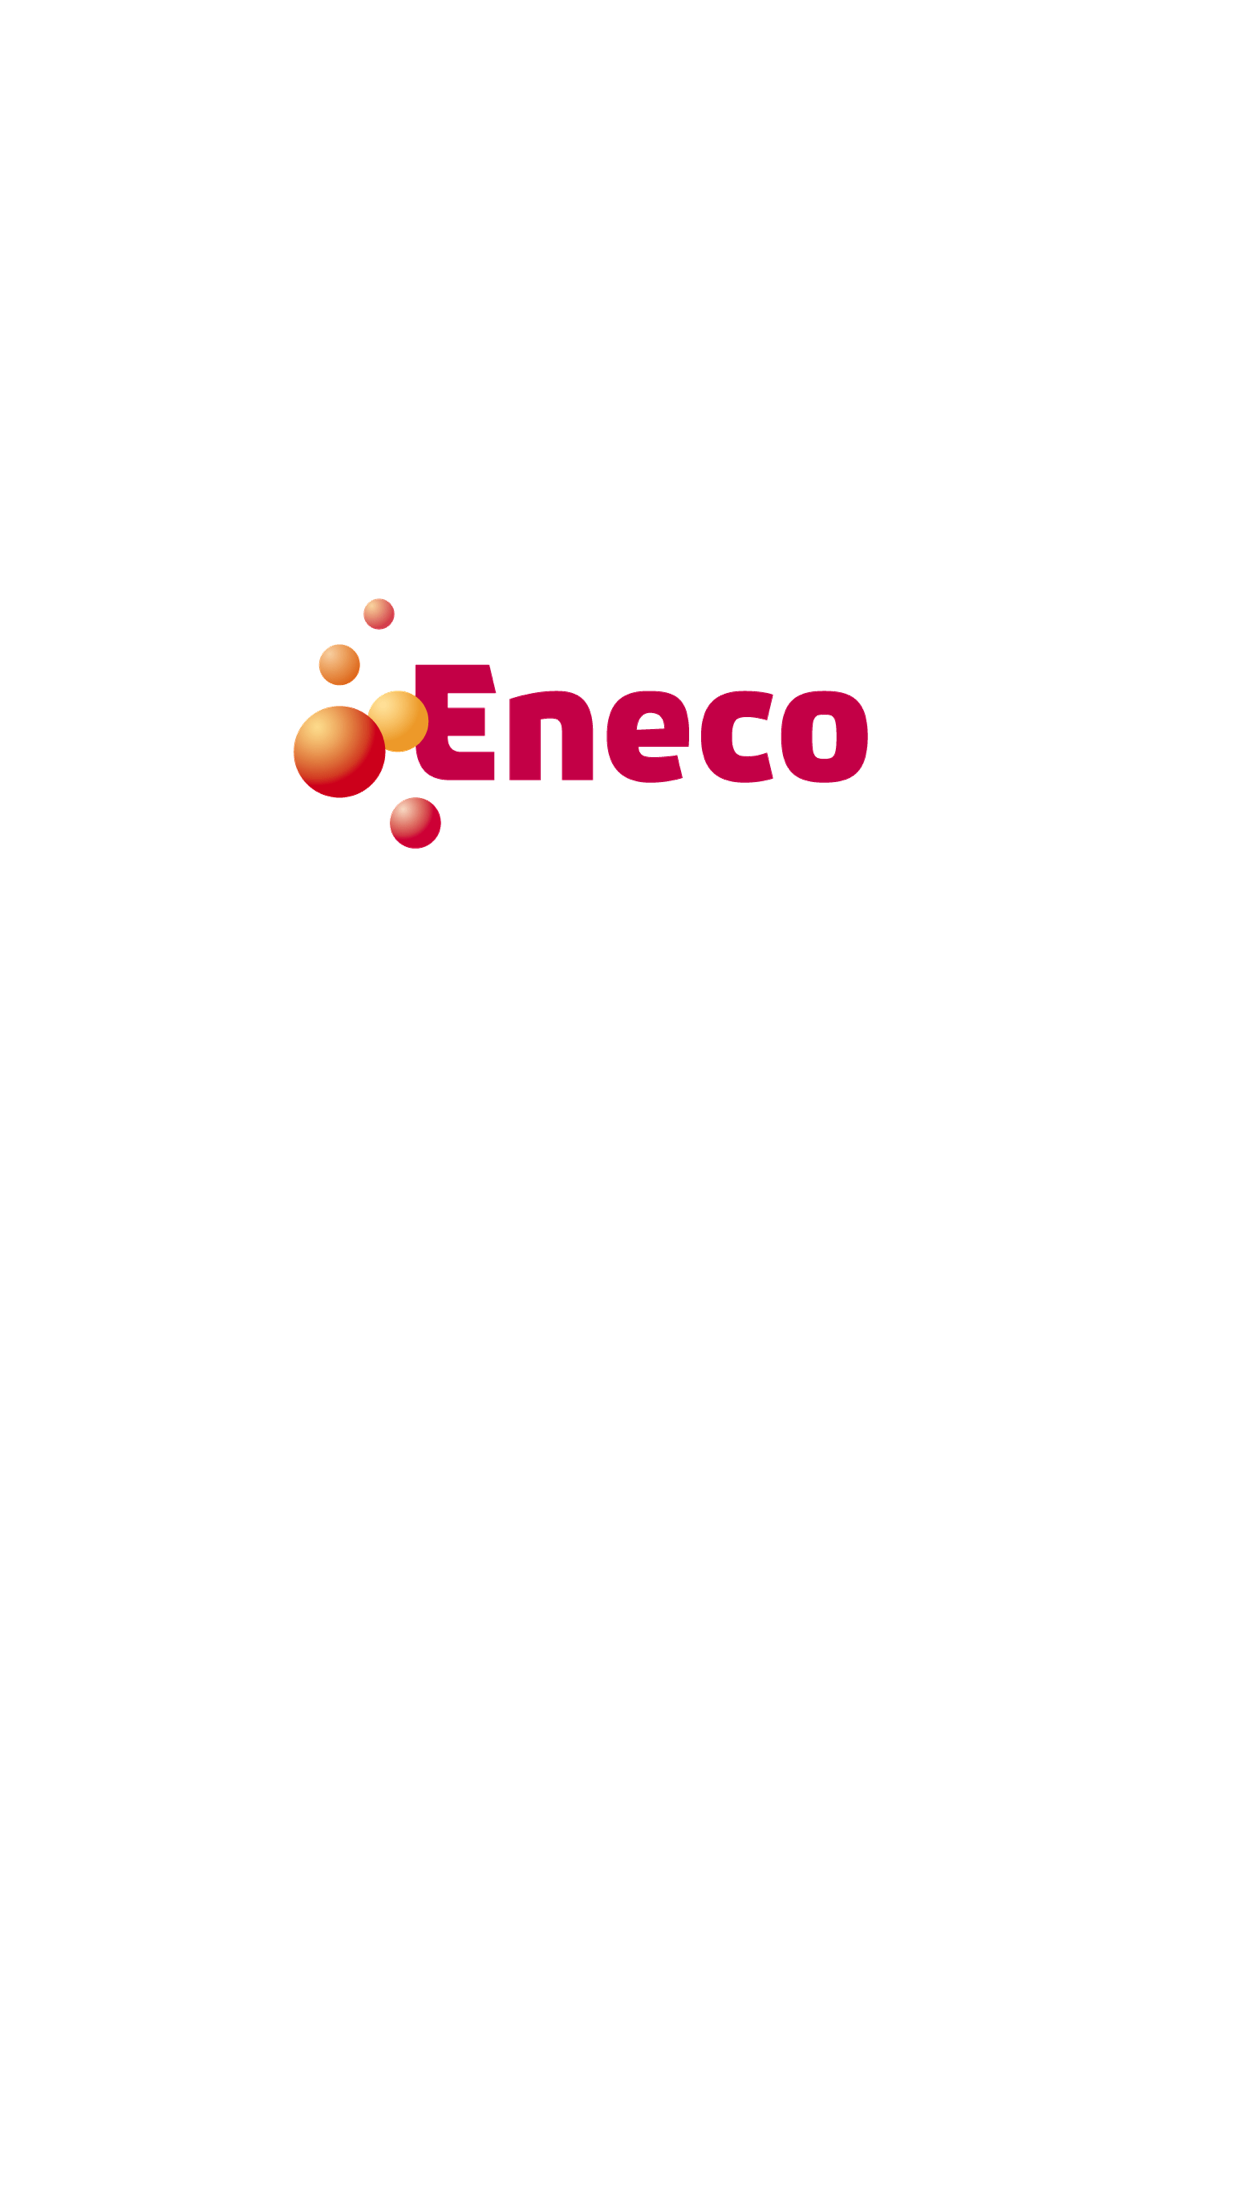
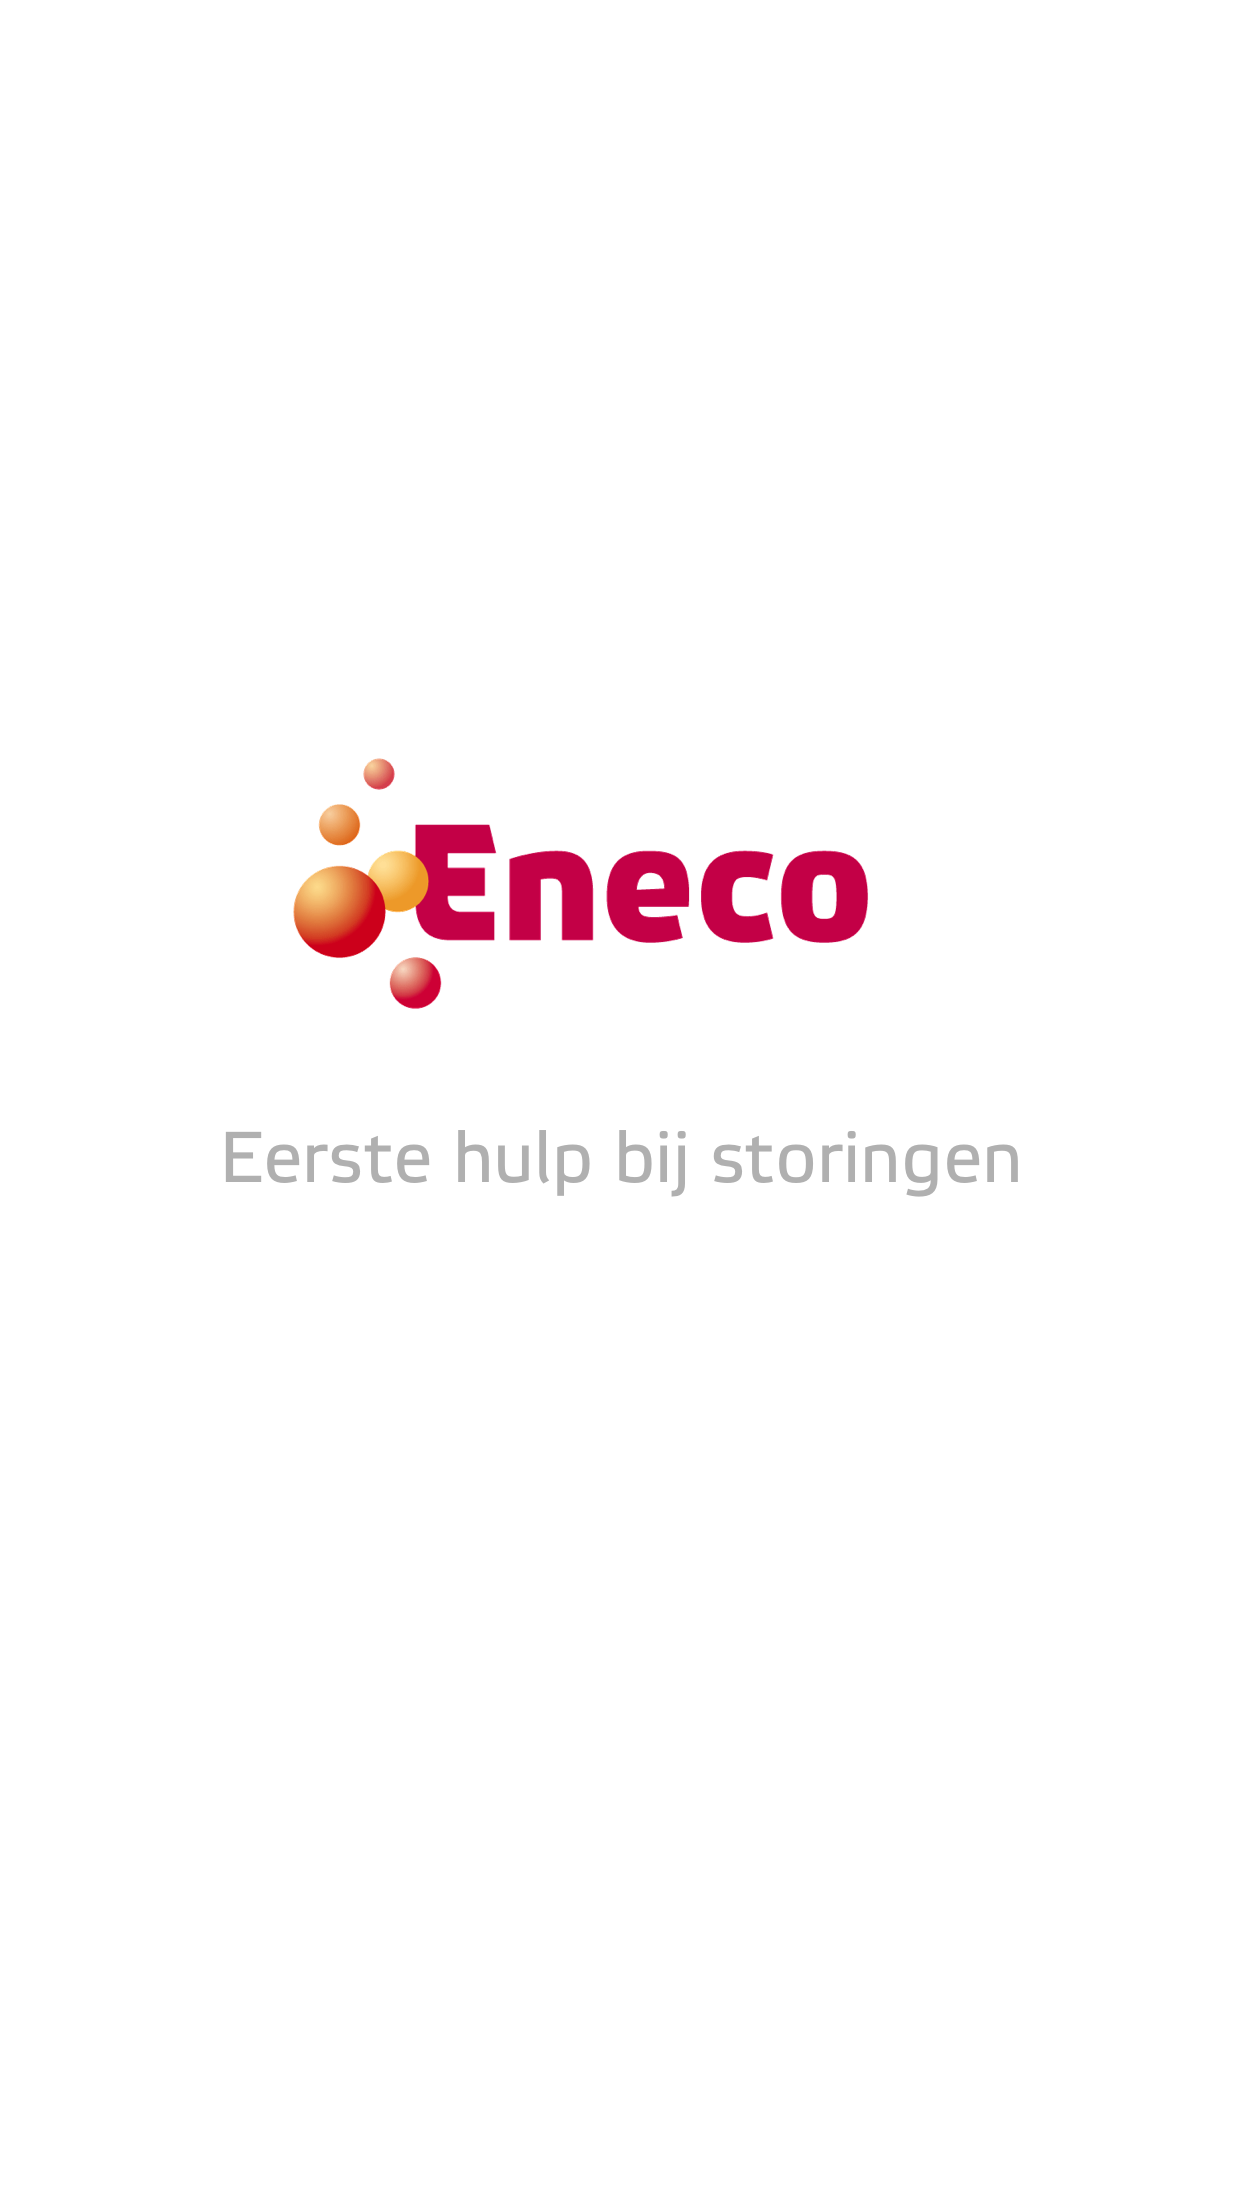
Mobile native

diff --git a/webapp/watermaatschappij.html b/webapp/watermaatschappij.html
@@ -7,12 +7,17 @@
         <meta name="description" content="">
         <meta name="viewport" content="width=device-width, initial-scale=1">
 
-               <link rel="apple-touch-icon" sizes="180x180" href="favicons/apple-touch-icon.png">
+        <link rel="apple-touch-icon" sizes="180x180" href="favicons/apple-touch-icon.png">
         <link rel="icon" type="image/png" sizes="32x32" href="favicons/favicon-32x32.png">
         <link rel="icon" type="image/png" sizes="16x16" href="favicons/favicon-16x16.png">
         <link rel="manifest" href="favicons/manifest.json">
         <link rel="mask-icon" href="favicons/safari-pinned-tab.svg" color="#c51d44">
         <meta name="theme-color" content="#ffffff">
+
+                <meta name="apple-mobile-web-app-capable" content="yes">
+        <meta name="apple-mobile-web-app-status-bar-style" content="default">
+        <meta name="apple-mobile-web-app-title" content="Eerste hulp bij storingen">
+        <link rel="apple-touch-startup-image" href="img/launch.png">
 
         <link rel="stylesheet" href="css/normalize.css">
         <link rel="stylesheet" href="css/main.css">

diff --git a/webapp/twist_elektrisch.html b/webapp/twist_elektrisch.html
@@ -13,6 +13,13 @@
         <link rel="manifest" href="favicons/manifest.json">
         <link rel="mask-icon" href="favicons/safari-pinned-tab.svg" color="#c51d44">
         <meta name="theme-color" content="#ffffff">
+
+        <meta name="apple-mobile-web-app-capable" content="yes">
+        <meta name="apple-mobile-web-app-status-bar-style" content="default">
+        <meta name="apple-mobile-web-app-title" content="Eerste hulp bij storingen">
+        <link rel="apple-touch-startup-image" href="img/launch.png">
+
+
         <link rel="stylesheet" href="css/normalize.css">
         <link rel="stylesheet" href="css/main.css">
     </head>

diff --git a/webapp/stank.html b/webapp/stank.html
@@ -13,7 +13,10 @@
         <link rel="manifest" href="favicons/manifest.json">
         <link rel="mask-icon" href="favicons/safari-pinned-tab.svg" color="#c51d44">
         <meta name="theme-color" content="#ffffff">
-
+        <meta name="apple-mobile-web-app-capable" content="yes">
+        <meta name="apple-mobile-web-app-status-bar-style" content="default">
+        <meta name="apple-mobile-web-app-title" content="Eerste hulp bij storingen">
+        <link rel="apple-touch-startup-image" href="img/launch.png">
         <link rel="stylesheet" href="css/normalize.css">
         <link rel="stylesheet" href="css/main.css">
 

diff --git a/webapp/a4.html b/webapp/a4.html
@@ -14,6 +14,11 @@
         <link rel="mask-icon" href="favicons/safari-pinned-tab.svg" color="#c51d44">
         <meta name="theme-color" content="#ffffff">
 
+                <meta name="apple-mobile-web-app-capable" content="yes">
+        <meta name="apple-mobile-web-app-status-bar-style" content="default">
+        <meta name="apple-mobile-web-app-title" content="Eerste hulp bij storingen">
+        <link rel="apple-touch-startup-image" href="img/launch.png">
+
         <link rel="stylesheet" href="css/normalize.css">
         <link rel="stylesheet" href="css/main.css">
     </head>

diff --git a/webapp/continuwarmte.html b/webapp/continuwarmte.html
@@ -14,6 +14,11 @@
         <link rel="mask-icon" href="favicons/safari-pinned-tab.svg" color="#c51d44">
         <meta name="theme-color" content="#ffffff">
 
+                <meta name="apple-mobile-web-app-capable" content="yes">
+        <meta name="apple-mobile-web-app-status-bar-style" content="default">
+        <meta name="apple-mobile-web-app-title" content="Eerste hulp bij storingen">
+        <link rel="apple-touch-startup-image" href="img/launch.png">
+
         <link rel="stylesheet" href="css/normalize.css">
         <link rel="stylesheet" href="css/main.css">
     </head>

diff --git a/webapp/geenwtw.html b/webapp/geenwtw.html
@@ -14,6 +14,11 @@
         <link rel="mask-icon" href="favicons/safari-pinned-tab.svg" color="#c51d44">
         <meta name="theme-color" content="#ffffff">
 
+                <meta name="apple-mobile-web-app-capable" content="yes">
+        <meta name="apple-mobile-web-app-status-bar-style" content="default">
+        <meta name="apple-mobile-web-app-title" content="Eerste hulp bij storingen">
+        <link rel="apple-touch-startup-image" href="img/launch.png">
+
         <link rel="stylesheet" href="css/normalize.css">
         <link rel="stylesheet" href="css/main.css">
     </head>

diff --git a/webapp/geluid.html b/webapp/geluid.html
@@ -14,6 +14,11 @@
         <link rel="mask-icon" href="favicons/safari-pinned-tab.svg" color="#c51d44">
         <meta name="theme-color" content="#ffffff">
 
+                <meta name="apple-mobile-web-app-capable" content="yes">
+        <meta name="apple-mobile-web-app-status-bar-style" content="default">
+        <meta name="apple-mobile-web-app-title" content="Eerste hulp bij storingen">
+        <link rel="apple-touch-startup-image" href="img/launch.png">
+
         <link rel="stylesheet" href="css/normalize.css">
         <link rel="stylesheet" href="css/main.css">
     </head>

diff --git a/webapp/installateur.html b/webapp/installateur.html
@@ -14,6 +14,11 @@
         <link rel="mask-icon" href="favicons/safari-pinned-tab.svg" color="#c51d44">
         <meta name="theme-color" content="#ffffff">
 
+                <meta name="apple-mobile-web-app-capable" content="yes">
+        <meta name="apple-mobile-web-app-status-bar-style" content="default">
+        <meta name="apple-mobile-web-app-title" content="Eerste hulp bij storingen">
+        <link rel="apple-touch-startup-image" href="img/launch.png">
+
         <link rel="stylesheet" href="css/normalize.css">
         <link rel="stylesheet" href="css/main.css">
     </head>

diff --git a/webapp/kamerthermostaat.html b/webapp/kamerthermostaat.html
@@ -14,6 +14,11 @@
         <link rel="mask-icon" href="favicons/safari-pinned-tab.svg" color="#c51d44">
         <meta name="theme-color" content="#ffffff">
 
+                <meta name="apple-mobile-web-app-capable" content="yes">
+        <meta name="apple-mobile-web-app-status-bar-style" content="default">
+        <meta name="apple-mobile-web-app-title" content="Eerste hulp bij storingen">
+        <link rel="apple-touch-startup-image" href="img/launch.png">
+
         <link rel="stylesheet" href="css/normalize.css">
         <link rel="stylesheet" href="css/main.css">
     </head>

diff --git a/webapp/koudwater.html b/webapp/koudwater.html
@@ -14,6 +14,11 @@
         <link rel="mask-icon" href="favicons/safari-pinned-tab.svg" color="#c51d44">
         <meta name="theme-color" content="#ffffff">
 
+                <meta name="apple-mobile-web-app-capable" content="yes">
+        <meta name="apple-mobile-web-app-status-bar-style" content="default">
+        <meta name="apple-mobile-web-app-title" content="Eerste hulp bij storingen">
+        <link rel="apple-touch-startup-image" href="img/launch.png">
+
         <link rel="stylesheet" href="css/normalize.css">
         <link rel="stylesheet" href="css/main.css">
     </head>

diff --git a/webapp/radiatoren.html b/webapp/radiatoren.html
@@ -14,6 +14,11 @@
         <link rel="mask-icon" href="favicons/safari-pinned-tab.svg" color="#c51d44">
         <meta name="theme-color" content="#ffffff">
 
+                <meta name="apple-mobile-web-app-capable" content="yes">
+        <meta name="apple-mobile-web-app-status-bar-style" content="default">
+        <meta name="apple-mobile-web-app-title" content="Eerste hulp bij storingen">
+        <link rel="apple-touch-startup-image" href="img/launch.png">
+
         <link rel="stylesheet" href="css/normalize.css">
         <link rel="stylesheet" href="css/main.css">
     </head>

diff --git a/webapp/radiatorknop.html b/webapp/radiatorknop.html
@@ -14,6 +14,11 @@
         <link rel="mask-icon" href="favicons/safari-pinned-tab.svg" color="#c51d44">
         <meta name="theme-color" content="#ffffff">
 
+                <meta name="apple-mobile-web-app-capable" content="yes">
+        <meta name="apple-mobile-web-app-status-bar-style" content="default">
+        <meta name="apple-mobile-web-app-title" content="Eerste hulp bij storingen">
+        <link rel="apple-touch-startup-image" href="img/launch.png">
+
         <link rel="stylesheet" href="css/normalize.css">
         <link rel="stylesheet" href="css/main.css">
     </head>
